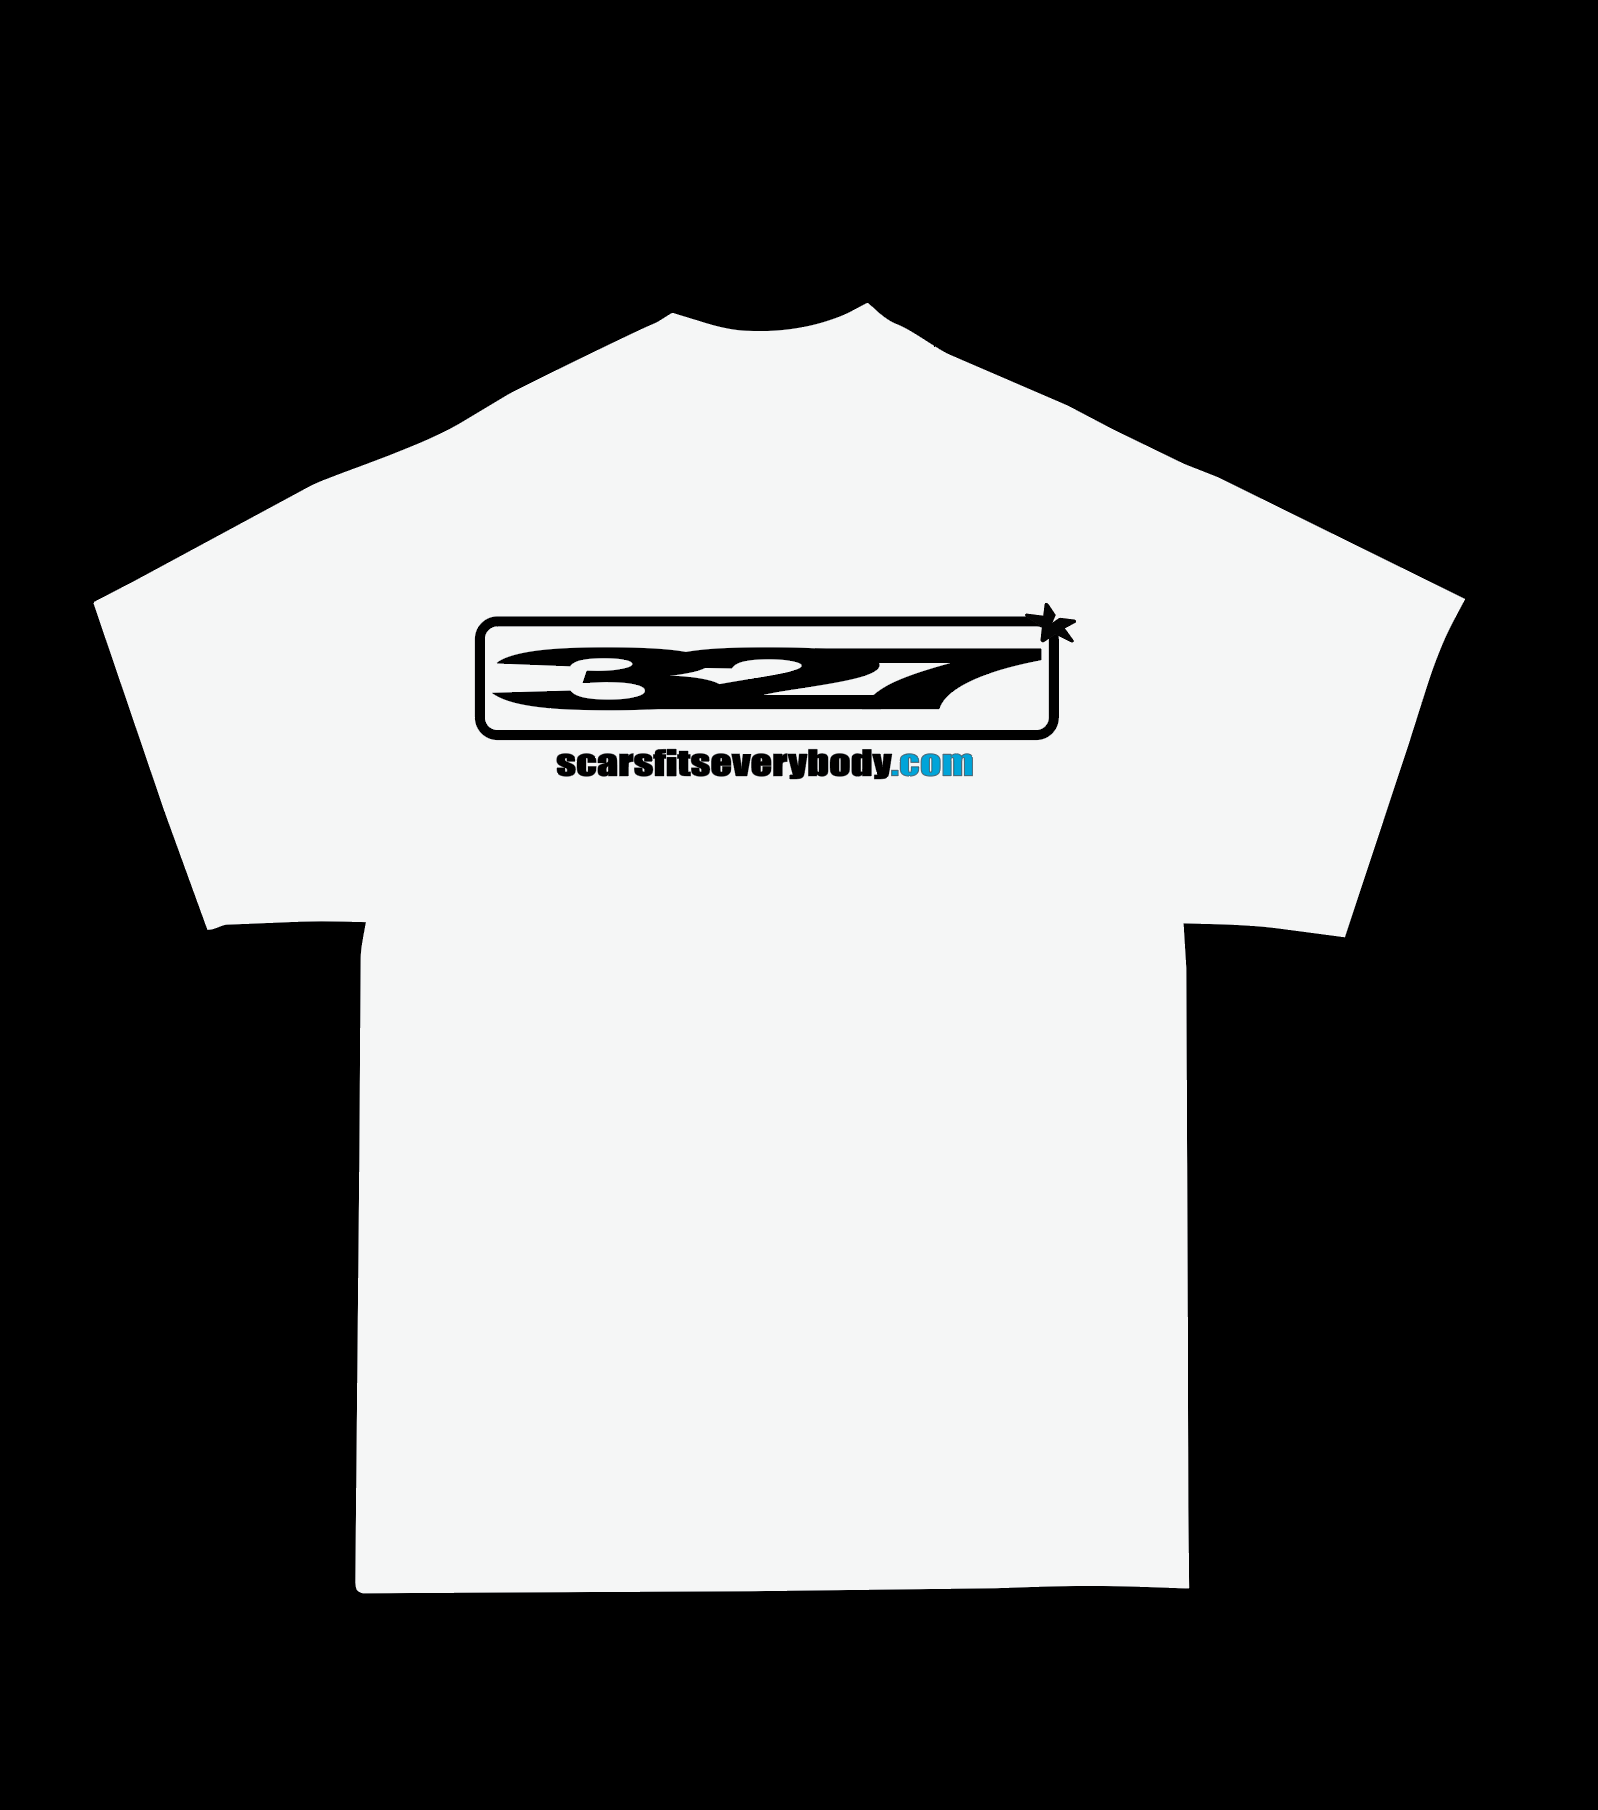
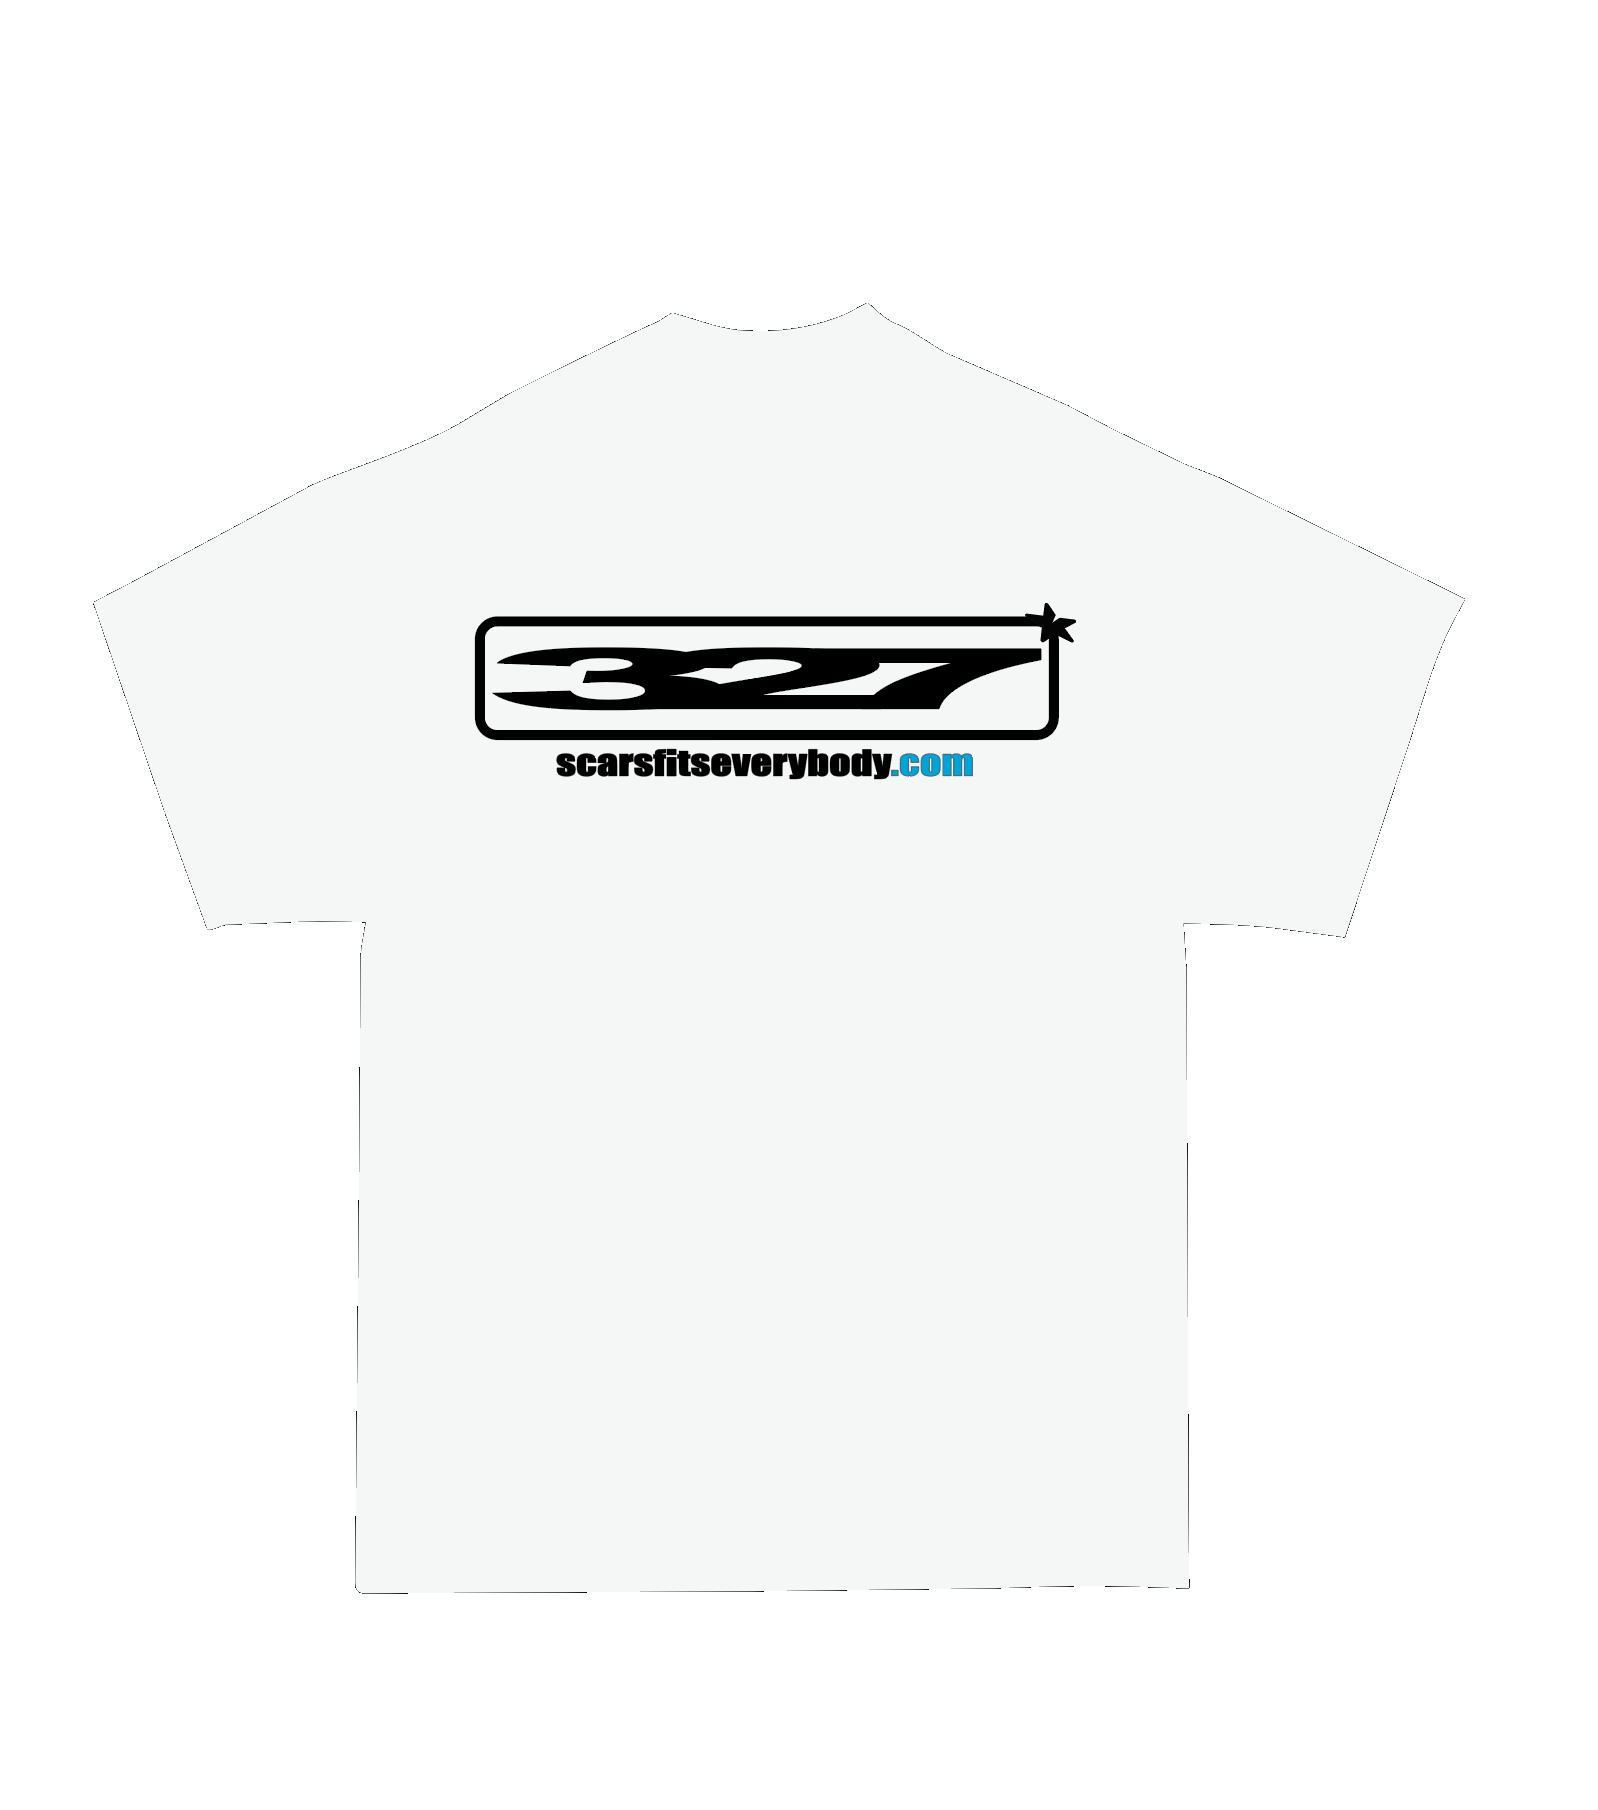
Add files via upload

diff --git a/index.html b/index.html
@@ -17,7 +17,7 @@
   <link rel="icon" type="image/png" sizes="192x192" href="/favicon-192.png" />
   <link rel="apple-touch-icon" href="/apple-touch-icon.png" />
   <script type="application/ld+json">{"@context":"https://schema.org","@type":"Organization","name":"SCARS327","url":"https://scarsfitseverybody.com/","logo":"https://scarsfitseverybody.com/assets/site-logo.png","sameAs":["https://www.instagram.com/327scars"]}</script>
-  <link rel="stylesheet" href="style.css?v=36" />
+  <link rel="stylesheet" href="style.css?v=37" />
 </head>
 <body>
   <div class="access-screen" id="accessScreen" aria-live="polite">
@@ -83,6 +83,6 @@
       <img src="assets/black-shirt.png" alt="T-shirt noir Scars 327" class="product-shirt product-black" />
     </section>
   </main>
-  <script src="script.js?v=36"></script>
+  <script src="script.js?v=37"></script>
 </body>
 </html>

diff --git a/style.css b/style.css
@@ -319,7 +319,7 @@ body.archive-revealed .archive-link {
   }
 
   .product-page-black::before {
-    opacity: 0.27;
+    opacity: 0.36;
   }
 
   .intro-logo { width: 88vw; }
@@ -352,7 +352,7 @@ body.archive-revealed .archive-link {
   }
 
   .product-page-black::before {
-    opacity: 0.27;
+    opacity: 0.36;
   }
 
   .hero { top: 48.2%; width: 94vw; }

diff --git a/archive.html b/archive.html
@@ -12,7 +12,7 @@
   <link rel="icon" type="image/png" sizes="96x96" href="/favicon-96.png" />
   <link rel="icon" type="image/png" sizes="192x192" href="/favicon-192.png" />
   <link rel="apple-touch-icon" href="/apple-touch-icon.png" />
-  <link rel="stylesheet" href="style.css?v=36" />
+  <link rel="stylesheet" href="style.css?v=37" />
 </head>
 <body class="archive-body">
   <main class="archive-page">